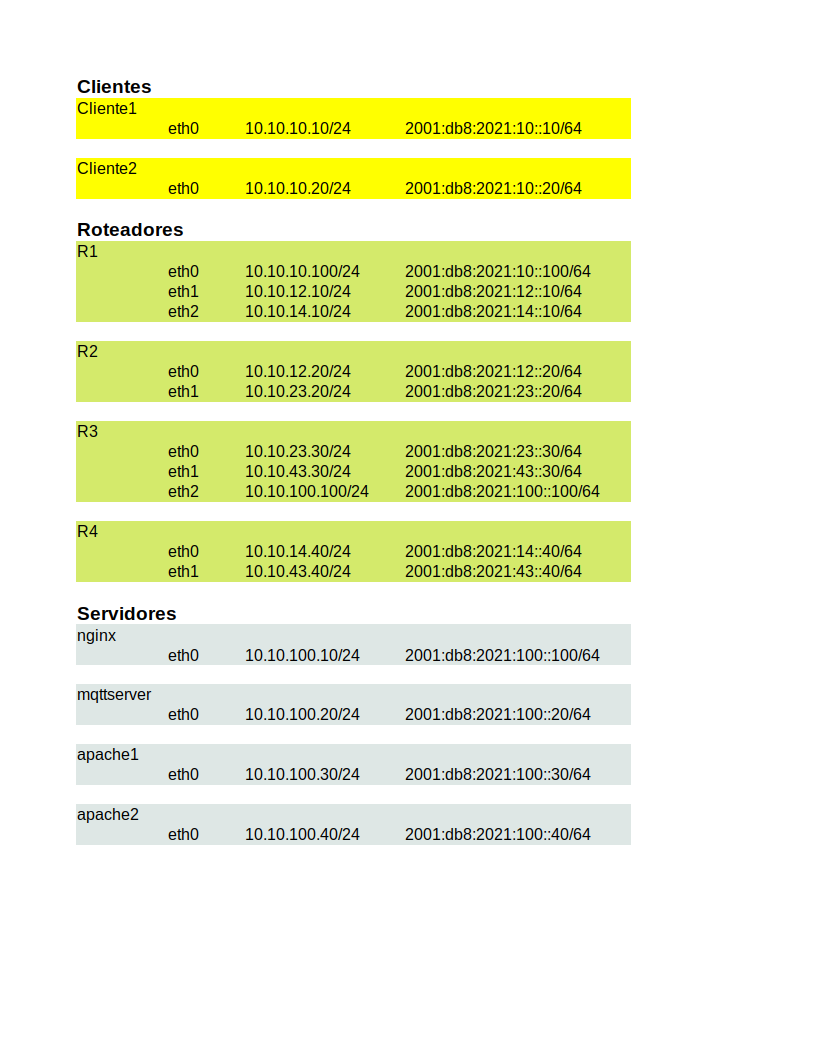
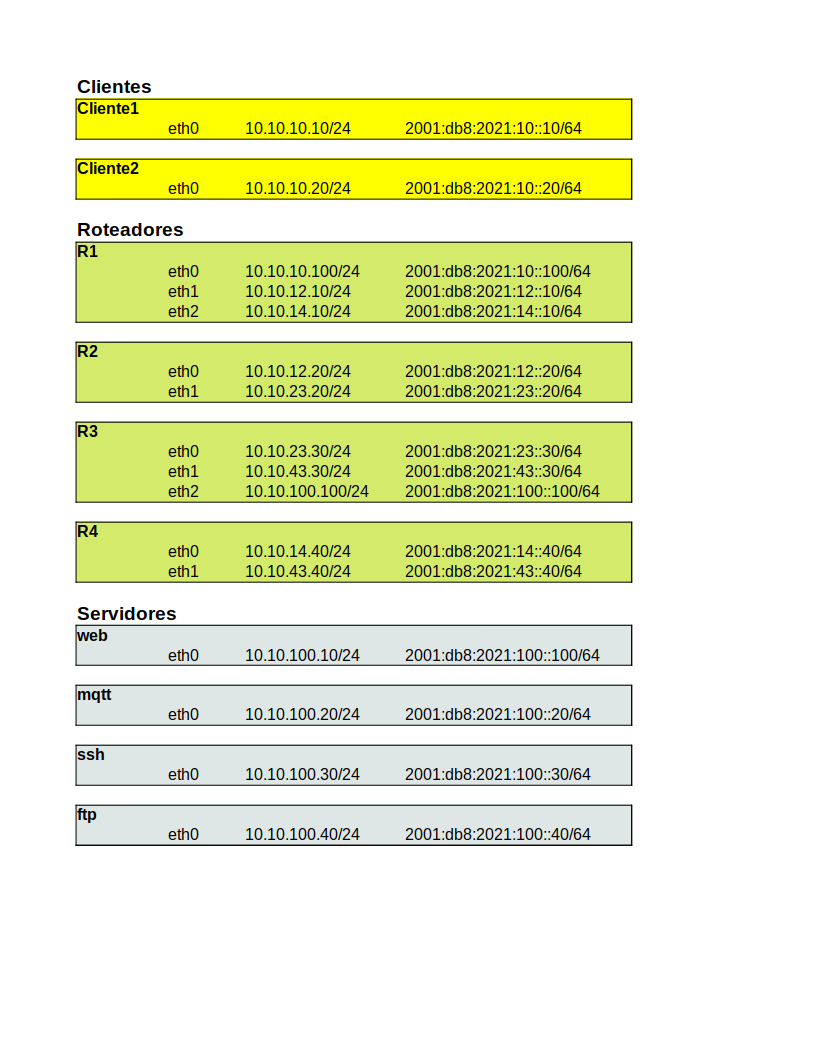
ajustes na inicializacao, nomes de servidores, script de teste e documentacao

diff --git a/README.md b/README.md
@@ -20,44 +20,11 @@ git clone https://github.com/sidneypio/NetLabDocker.git
 cd NetLabDocker
 cd lab
 make liga
-./ajusta-rotas.sh
 ```
 
 ## Testando 
 ```
 ./testa-ambiente.sh
-```
-* Resultado da execução:
-```
-## Verificando conectidade a partir de cliente1 ##
-### ping para cliente2 usando IPv4 ###
-PING 10.10.10.20 (10.10.10.20): 56 data bytes
-64 bytes from 10.10.10.20: icmp_seq=0 ttl=64 time=0.144 ms
-64 bytes from 10.10.10.20: icmp_seq=1 ttl=64 time=0.153 ms
-64 bytes from 10.10.10.20: icmp_seq=2 ttl=64 time=0.152 ms
---- 10.10.10.20 ping statistics ---
-3 packets transmitted, 3 packets received, 0% packet loss
-round-trip min/avg/max/stddev = 0.144/0.150/0.153/0.000 ms
-### ping para cliente2 usando IPv6 ###
-PING 2001:db8:2021:10::20 (2001:db8:2021:10::20): 56 data bytes
-64 bytes from 2001:db8:2021:10::20: icmp_seq=0 ttl=64 time=0.136 ms
-64 bytes from 2001:db8:2021:10::20: icmp_seq=1 ttl=64 time=0.131 ms
-64 bytes from 2001:db8:2021:10::20: icmp_seq=2 ttl=64 time=0.129 ms
---- 2001:db8:2021:10::20 ping statistics ---
-3 packets transmitted, 3 packets received, 0% packet loss
-round-trip min/avg/max/stddev = 0.129/0.132/0.136/0.000 ms
-### traceroute para nginx usando IPv4
-traceroute to 10.10.100.10 (10.10.100.10), 30 hops max, 60 byte packets
- 1  10.10.10.100  0.151 ms  0.047 ms  0.030 ms
- 2  10.10.12.20  0.054 ms  0.040 ms  0.039 ms
- 3  10.10.23.30  0.060 ms  0.058 ms  0.049 ms
- 4  10.10.100.10  0.130 ms  0.067 ms  0.063 ms
-### traceroute para nginx usando IPv6
-traceroute to 2001:db8:2021:100::10 (2001:db8:2021:100::10), 30 hops max, 80 byte packets
- 1  2001:db8:2021:10::100  0.944 ms  0.799 ms  0.770 ms
- 2  2001:db8:2021:12::20  0.743 ms  0.695 ms  0.663 ms
- 3  2001:db8:2021:23::30  0.630 ms  0.574 ms  0.537 ms
- 4  2001:db8:2021:100::10  0.496 ms  0.345 ms  0.300 ms
 ```
 
 ## Exemplo de acesso ao roteador R1

diff --git a/lab/README.md b/lab/README.md
@@ -22,4 +22,4 @@ url, links, nmap, ftp)
   * Comando de linha para configuração: vtysh
   * documentação para usuário: http://docs.frrouting.org/en/latest/
 ## Servidores
-* nginx, apache e mosquitto
+* nginx, ssh, ftp  e mqtt (mosquitto server)
